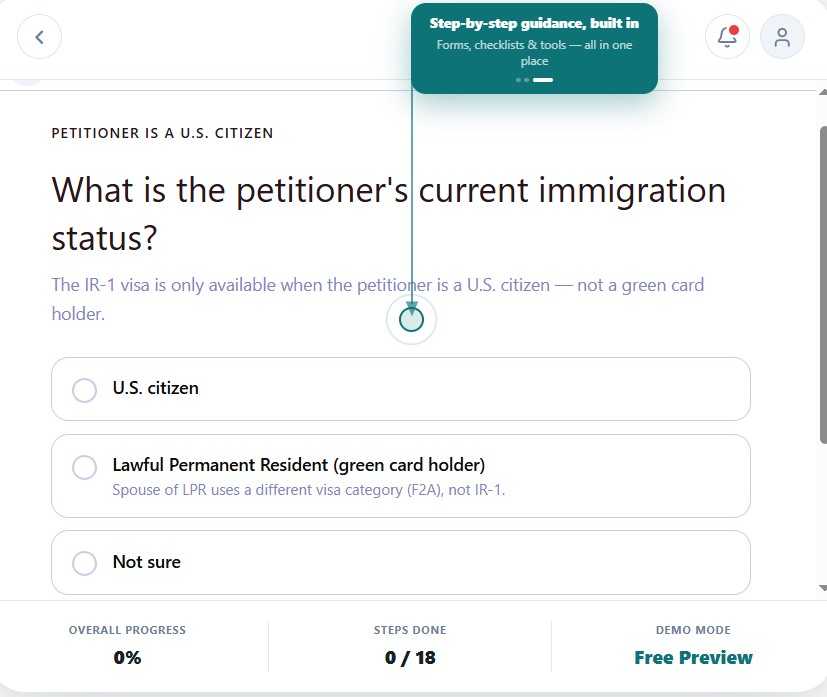
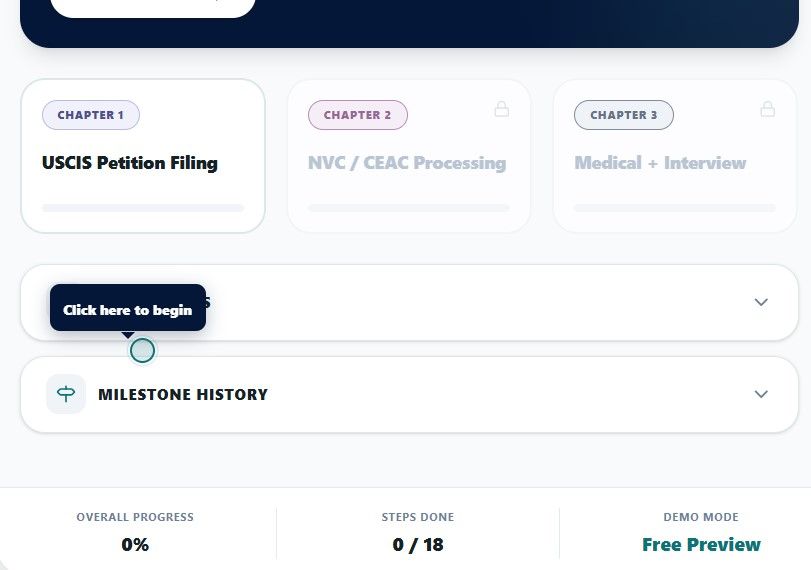
update resposnsivenesss

diff --git a/app/components/home-page/Components.tsx b/app/components/home-page/Components.tsx
@@ -1776,15 +1776,17 @@ const GUIDED_TOUR = [
     view: "dashboard" as const,
     text: "Click here to begin",
     dot: { top: 375, left: 118 },
-    // tooltip sits above the dot, arrow points down at it
-    tip: { top: 322, left: 44, arrow: "down" as const },
+    // text below ring — scrollTop will be subtracted at render time
+    tip: { top: 392, left: 52 },
+    side: "below" as const,
   },
   {
     view: "chapter" as const,
-    text: "Click to open this step",
+    text: "Click to open",
     dot: { top: 116, left: 455 },
-    // tooltip sits to the left of the dot, arrow points right at it
-    tip: { top: 100, left: 295, arrow: "right" as const },
+    // text to the RIGHT of ring with ← arrow — clear of content
+    tip: { top: 108, left: 485 },
+    side: "right" as const,
   },
 ] as const;
 
@@ -1802,6 +1804,8 @@ export function GuidedRoadmapScene() {
   const [tourIdx, setTourIdx] = useState(0);
   const [showComplete, setShowComplete] = useState(false);
   const completedOnce = useRef(false);
+  const dashScrollRef = useRef<HTMLDivElement>(null);
+  const [dashScrollTop, setDashScrollTop] = useState(0);
 
   // Complete overlay triggers from handleSelectStep — no useEffect timer needed
 
@@ -1960,6 +1964,8 @@ export function GuidedRoadmapScene() {
               initial={{ opacity: 0, y: 10 }}
               animate={{ opacity: 1, y: 0 }}
               exit={{ opacity: 0, y: -10 }}
+              ref={dashScrollRef}
+              onScroll={() => setDashScrollTop(dashScrollRef.current?.scrollTop ?? 0)}
               className="flex-1 p-5 overflow-y-auto"
             >
               {/* Next Roadmap Step Card */}
@@ -2488,47 +2494,44 @@ export function GuidedRoadmapScene() {
             className="pointer-events-none"
             style={{ position: "absolute", inset: 0, zIndex: 40 }}
           >
-            {/* Small tooltip — sits right next to the target ring */}
-            <motion.div
-              key={`tip-${tourIdx}`}
-              initial={{ opacity: 0, scale: 0.85 }}
-              animate={{ opacity: 1, scale: 1 }}
-              exit={{ opacity: 0, scale: 0.85 }}
-              transition={{ delay: 0.1, duration: 0.2, ease: [0.22, 1, 0.36, 1] }}
-              style={{
-                position: "absolute",
-                top: GUIDED_TOUR[tourIdx].tip.top,
-                left: GUIDED_TOUR[tourIdx].tip.left,
-                background: "#051738",
-                borderRadius: 8,
-                padding: "6px 11px",
-                whiteSpace: "nowrap",
-                boxShadow: "0 4px 14px rgba(5,23,56,0.30)",
-              }}
-            >
-              <span style={{ fontSize: 11, fontWeight: 800, color: "white", letterSpacing: "0.01em" }}>
-                {GUIDED_TOUR[tourIdx].text}
-              </span>
-              {/* CSS arrow — points toward the pulsing ring */}
-              {GUIDED_TOUR[tourIdx].tip.arrow === "down" && (
-                <div style={{
-                  position: "absolute", bottom: -6, left: "50%",
-                  transform: "translateX(-50%)",
-                  borderLeft: "6px solid transparent", borderRight: "6px solid transparent",
-                  borderTop: "6px solid #051738",
-                }} />
-              )}
-              {GUIDED_TOUR[tourIdx].tip.arrow === "right" && (
-                <div style={{
-                  position: "absolute", right: -6, top: "50%",
-                  transform: "translateY(-50%)",
-                  borderTop: "6px solid transparent", borderBottom: "6px solid transparent",
-                  borderLeft: "6px solid #051738",
-                }} />
-              )}
-            </motion.div>
+            {/* Teal text — below ring (dashboard) or right of ring with ← (chapter) */}
+            {(() => {
+              const step = GUIDED_TOUR[tourIdx];
+              const scrollOffset = step.view === "dashboard" ? dashScrollTop : 0;
+              return (
+                <motion.div
+                  key={`tip-${tourIdx}`}
+                  initial={{ opacity: 0, y: -4 }}
+                  animate={{ opacity: 1, y: 0 }}
+                  exit={{ opacity: 0 }}
+                  transition={{ delay: 0.12, duration: 0.2, ease: [0.22, 1, 0.36, 1] }}
+                  style={{
+                    position: "absolute",
+                    top: step.tip.top - scrollOffset,
+                    left: step.tip.left,
+                    whiteSpace: "nowrap",
+                    display: "flex",
+                    alignItems: "center",
+                    gap: 4,
+                  }}
+                >
+                  {step.side === "right" && (
+                    <span style={{ fontSize: 12, color: "#0d7377", fontWeight: 900, lineHeight: 1 }}>←</span>
+                  )}
+                  <span style={{
+                    fontSize: 11,
+                    fontWeight: 800,
+                    color: "#0d7377",
+                    letterSpacing: "0.01em",
+                    textShadow: "0 0 6px rgba(255,255,255,1), 0 0 10px rgba(255,255,255,0.9)",
+                  }}>
+                    {step.text}
+                  </span>
+                </motion.div>
+              );
+            })()}
 
-            {/* Pulsing ring on the target element */}
+            {/* Pulsing ring — follows scroll on dashboard */}
             <motion.div
               key={`dot-${tourIdx}`}
               initial={{ opacity: 0, scale: 0.5 }}
@@ -2536,7 +2539,7 @@ export function GuidedRoadmapScene() {
               transition={{ delay: 0.15, duration: 0.22 }}
               style={{
                 position: "absolute",
-                top: GUIDED_TOUR[tourIdx].dot.top - 10,
+                top: GUIDED_TOUR[tourIdx].dot.top - 10 - (GUIDED_TOUR[tourIdx].view === "dashboard" ? dashScrollTop : 0),
                 left: GUIDED_TOUR[tourIdx].dot.left - 10,
                 width: 20, height: 20,
                 borderRadius: "50%",
